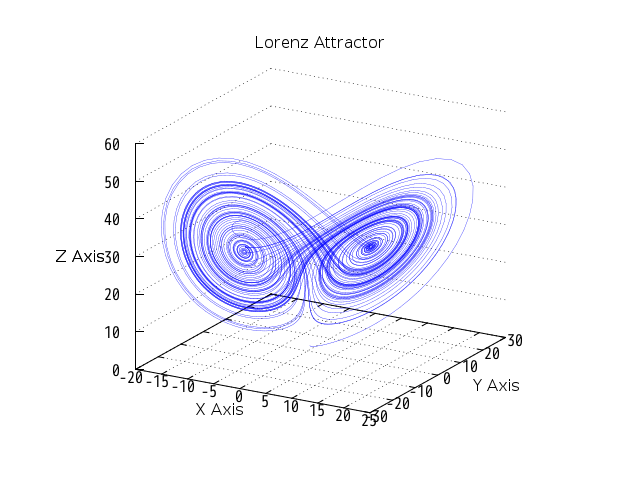
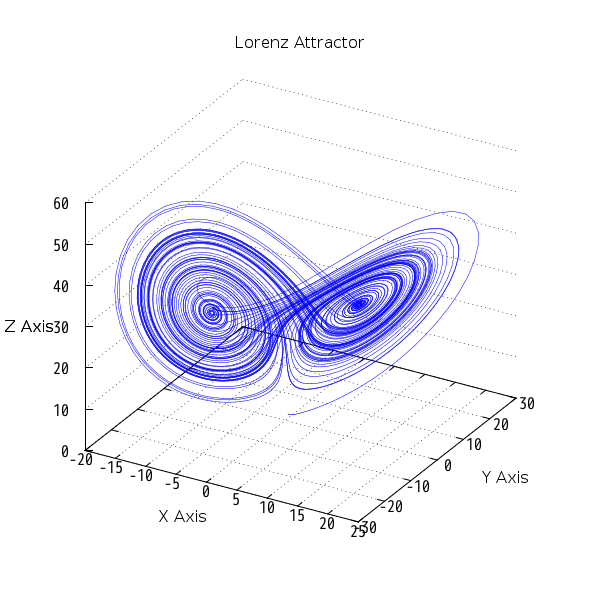
add GIF animation

diff --git a/misc/lorenz/lorenz.rb b/misc/lorenz/lorenz.rb
@@ -21,15 +21,24 @@ stepCnt.times do |i|
 end
 
 Numo.gnuplot do
-  set term:"pngcairo"
-  set output:"lorenz.png"
-  set xlabel:"X Axis"
-  set ylabel:"Y Axis"
-  set zlabel:"Z Axis"
-  set title:"Lorenz Attractor"
-  set grid:"xtics ytics ztics"
-  set xyplane_at:0
-  set view:[60,30,0.8,1.5]
+  set term: "pngcairo", size:[600,600]
+  set output: "lorenz.png"
+  set xlabel: "X Axis"
+  set ylabel: "Y Axis"
+  set zlabel: "Z Axis"
+  set title: "Lorenz Attractor"
+  set grid: "xtics ytics ztics"
+  set xyplane_at: 0
   unset :key
-  splot xs, ys, zs, w:"lines", lw:0.3, lc_rgb:"blue"
+
+  set view: [60,30,1,1]
+  splot xs, ys, zs, w:"lines", lw:0.5, lc_rgb:"blue"
+
+  set term: "gif", animate:true, delay:50, size:[600,600]
+  set output: "lorenz.gif"
+
+  12.times do |i|
+    set view: [80-i*5,10+i*15,1,1]
+    splot xs, ys, zs, w:"lines", lw:1, lc_rgb:"blue"
+  end
 end

diff --git a/misc/lorenz/README.md b/misc/lorenz/README.md
@@ -28,18 +28,27 @@ stepCnt.times do |i|
 end
 
 Numo.gnuplot do
-  set term:"pngcairo"
-  set output:"lorenz.png"
-  set xlabel:"X Axis"
-  set ylabel:"Y Axis"
-  set zlabel:"Z Axis"
-  set title:"Lorenz Attractor"
-  set grid:"xtics ytics ztics"
-  set xyplane_at:0
-  set view:[60,30,0.8,1.5]
+  set term: "pngcairo", size:[600,600]
+  set output: "lorenz.png"
+  set xlabel: "X Axis"
+  set ylabel: "Y Axis"
+  set zlabel: "Z Axis"
+  set title: "Lorenz Attractor"
+  set grid: "xtics ytics ztics"
+  set xyplane_at: 0
   unset :key
-  splot xs, ys, zs, w:"lines", lw:0.3, lc_rgb:"blue"
-end
 
+  set view: [60,30,1,1]
+  splot xs, ys, zs, w:"lines", lw:0.5, lc_rgb:"blue"
+
+  set term: "gif", animate:true, delay:50, size:[600,600]
+  set output: "lorenz.gif"
+
+  12.times do |i|
+    set view: [80-i*5,10+i*15,1,1]
+    splot xs, ys, zs, w:"lines", lw:1, lc_rgb:"blue"
+  end
+end
 ```
-![lorenz](https://raw.github.com/ruby-numo/gnuplot-demo/master/misc/lorenz/lorenz.png)
+![lorenz.png](https://raw.github.com/ruby-numo/gnuplot-demo/master/misc/lorenz/lorenz.png)
+![lorenz.gif](https://raw.github.com/ruby-numo/gnuplot-demo/master/misc/lorenz/lorenz.gif)
